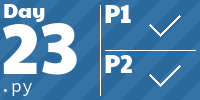
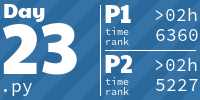
day 23

diff --git a/day_23.py b/day_23.py
@@ -1,5 +1,6 @@
 import argparse
 
+from itertools import combinations
 from pathlib import Path
 from time import time
 
@@ -16,13 +17,52 @@ def _parse_args() -> argparse.Namespace:
         parser.error("Which part are you solving?")
     return args
 
+def parse_input(raw:str) -> None:
+    c1, c2 = raw.split("-")
+    data[c1] = data.get(c1, set()) | {c2}
+    data[c2] = data.get(c2, set()) | {c1}
+
+def connected_three() -> list:
+    lans = []
+    for computer, linked in data.items():
+        for other in linked:
+            lan = linked.intersection(data[other])
+            for comp in lan:
+                three_lan = {computer, other, comp}
+                if three_lan not in lans and (
+                    computer.startswith("t") 
+                    or other.startswith("t") 
+                    or comp.startswith("t")
+                ):
+                    lans.append(three_lan)
+    return lans
+
+def lan_party() -> str:
+    max_lan_count = 0
+    max_lan = set()
+    for computer, linked in data.items():
+        combi = len(linked)
+        while combi > max_lan_count - 1:
+            for c in combinations(list(linked), combi):
+                lan = set(c)
+                lan.add(computer)
+                for comp in c:
+                    lan = lan.intersection({comp} | data[comp])
+                if len(lan) > max_lan_count:
+                    max_lan_count = len(lan)
+                    max_lan = lan
+            combi -= 1
+    return ",".join(sorted(list(max_lan)))
+
 if __name__ == "__main__":
     args = _parse_args()
     t = time()
+    data = {}
     with Path(f"inputs/{Path(__file__).stem}.txt").open("r") as file:
-        data = file.read()
+        while line := file.readline():
+            parse_input(line.strip())
     if args.part == 1:
-        print(data)
+        print(len(connected_three()))
     else:
-        raise NotImplementedError
+        print(lan_party())
     print(time() - t)

diff --git a/README.md b/README.md
@@ -2,7 +2,7 @@
 
 <!-- AOC TILES BEGIN -->
 <h1 align="center">
-  2024 - 44 ⭐ - Python
+  2024 - 46 ⭐ - Python
 </h1>
 <a href="day_01.py">
   <img src=".aoc_tiles/tiles/2024/01.png" width="161px">
@@ -70,6 +70,9 @@
 <a href="day_22.py">
   <img src=".aoc_tiles/tiles/2024/22.png" width="161px">
 </a>
+<a href="day_23.py">
+  <img src=".aoc_tiles/tiles/2024/23.png" width="161px">
+</a>
 <!-- AOC TILES END -->
 
 <hr>
@@ -97,6 +100,8 @@ Day 19: lost about 40min for part 2 because I handled an additional new line at 
 Day 21: took me a while to figure out what to cache and how to do it properly.
 
 Day 22: I should check for other solutions because it takes too long to run (5sec for part 1, 20sec for part 2). Fine to get stars during the busy days, but it could surely be done more efficiently.
+
+I was disappointed with day 23 part 1 because it runs in almost 2sec. But part 2 cheered me up as I solved it fairly quickly and has a nice runtime.
 
 <hr>
 
